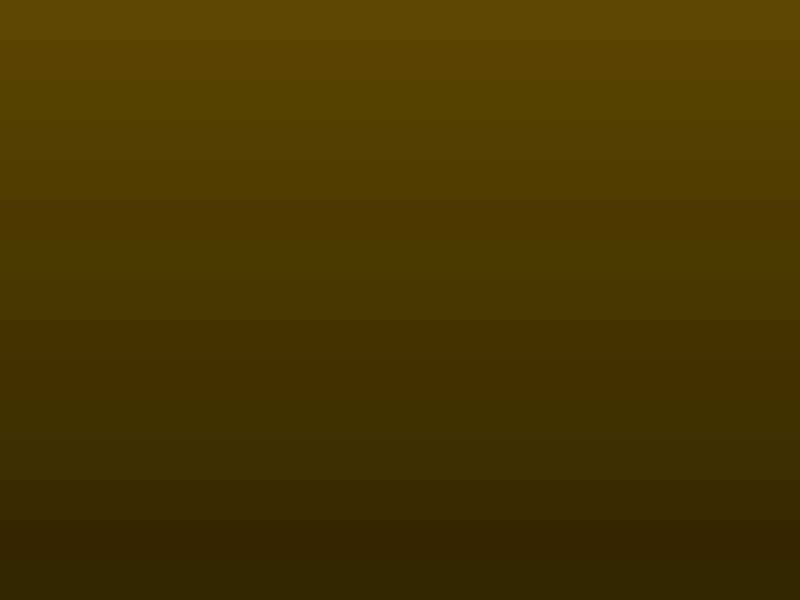
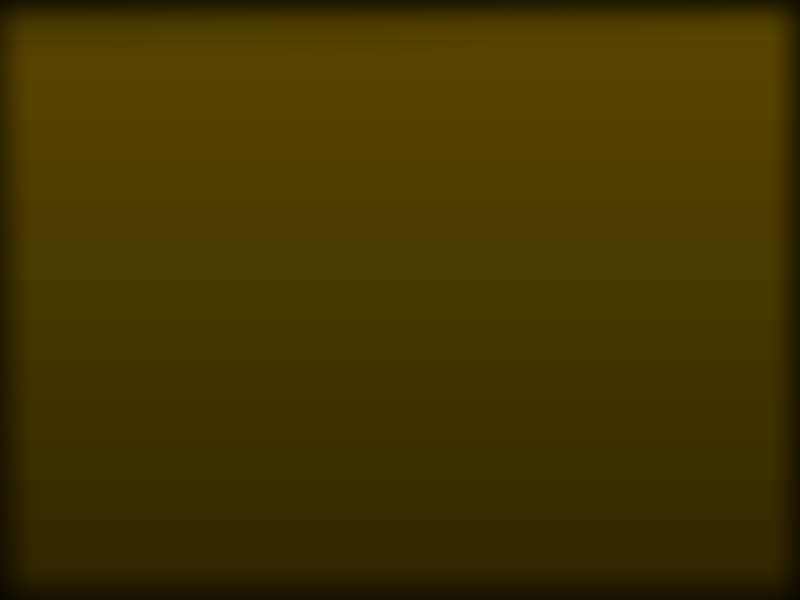
Asset changes

Changed region(s): [[0.0, 0.0, 1.0, 1.0]]

diff --git a/js/main.js b/js/main.js
@@ -27,6 +27,7 @@ window.onload = function () {
         game.load.tilemap('map', 'assets/test.json', null, Phaser.Tilemap.TILED_JSON);
         game.load.image('tile1', 'assets/tile1.png');
         game.load.image('tile2', 'assets/tile2.png');
+        game.load.image('dark', 'assets/dark.png')
         //enemy
         game.load.spritesheet('bat', 'assets/enemy_sheet.png', 32, 32, 3);        
         //objects
@@ -245,7 +246,7 @@ window.onload = function () {
         
         //add food
         foods = game.add.physicsGroup();
-        for(var i = 0; i < 9; i++){
+        for(var i = 0; i < 20; i++){
             var f = foods.create(game.rnd.between(0, 99)*32,game.rnd.between(0, 99)*32, 'food');
         }        
         var f = foods.create(1700,1700, 'food');
@@ -321,14 +322,14 @@ window.onload = function () {
         } 
         
         //make enemies
-        var y = 2400
+        var y = 32*5;
         enemies = game.add.physicsGroup();
-        for(var i = 0; i < 5; i++){
+        for(var i = 0; i < 20; i++){
             var e = enemies.create(game.world.randomX, y, 'bat');
             e.body.velocity.x = game.rnd.between(200, 400);
             var move = e.animations.add('fly');
             e.animations.play('fly',10, true);            
-            y += 128;
+            y += 32*5;
         }
     
         //make player
@@ -352,6 +353,10 @@ window.onload = function () {
         var b = bar.create(0, -60, 'bar');
         b = bar.create(0, 460, 'bar');
         bar.fixedToCamera = true;
+        
+        //darkness
+        var darkness = game.add.sprite(0, 0, 'dark');
+        darkness.fixedToCamera = true;
         
         //text
         message = game.add.text(10, 470, 'Move with arrow keys and action with [ Z ]', { fontSize: '10px', fill: '#fff' });
